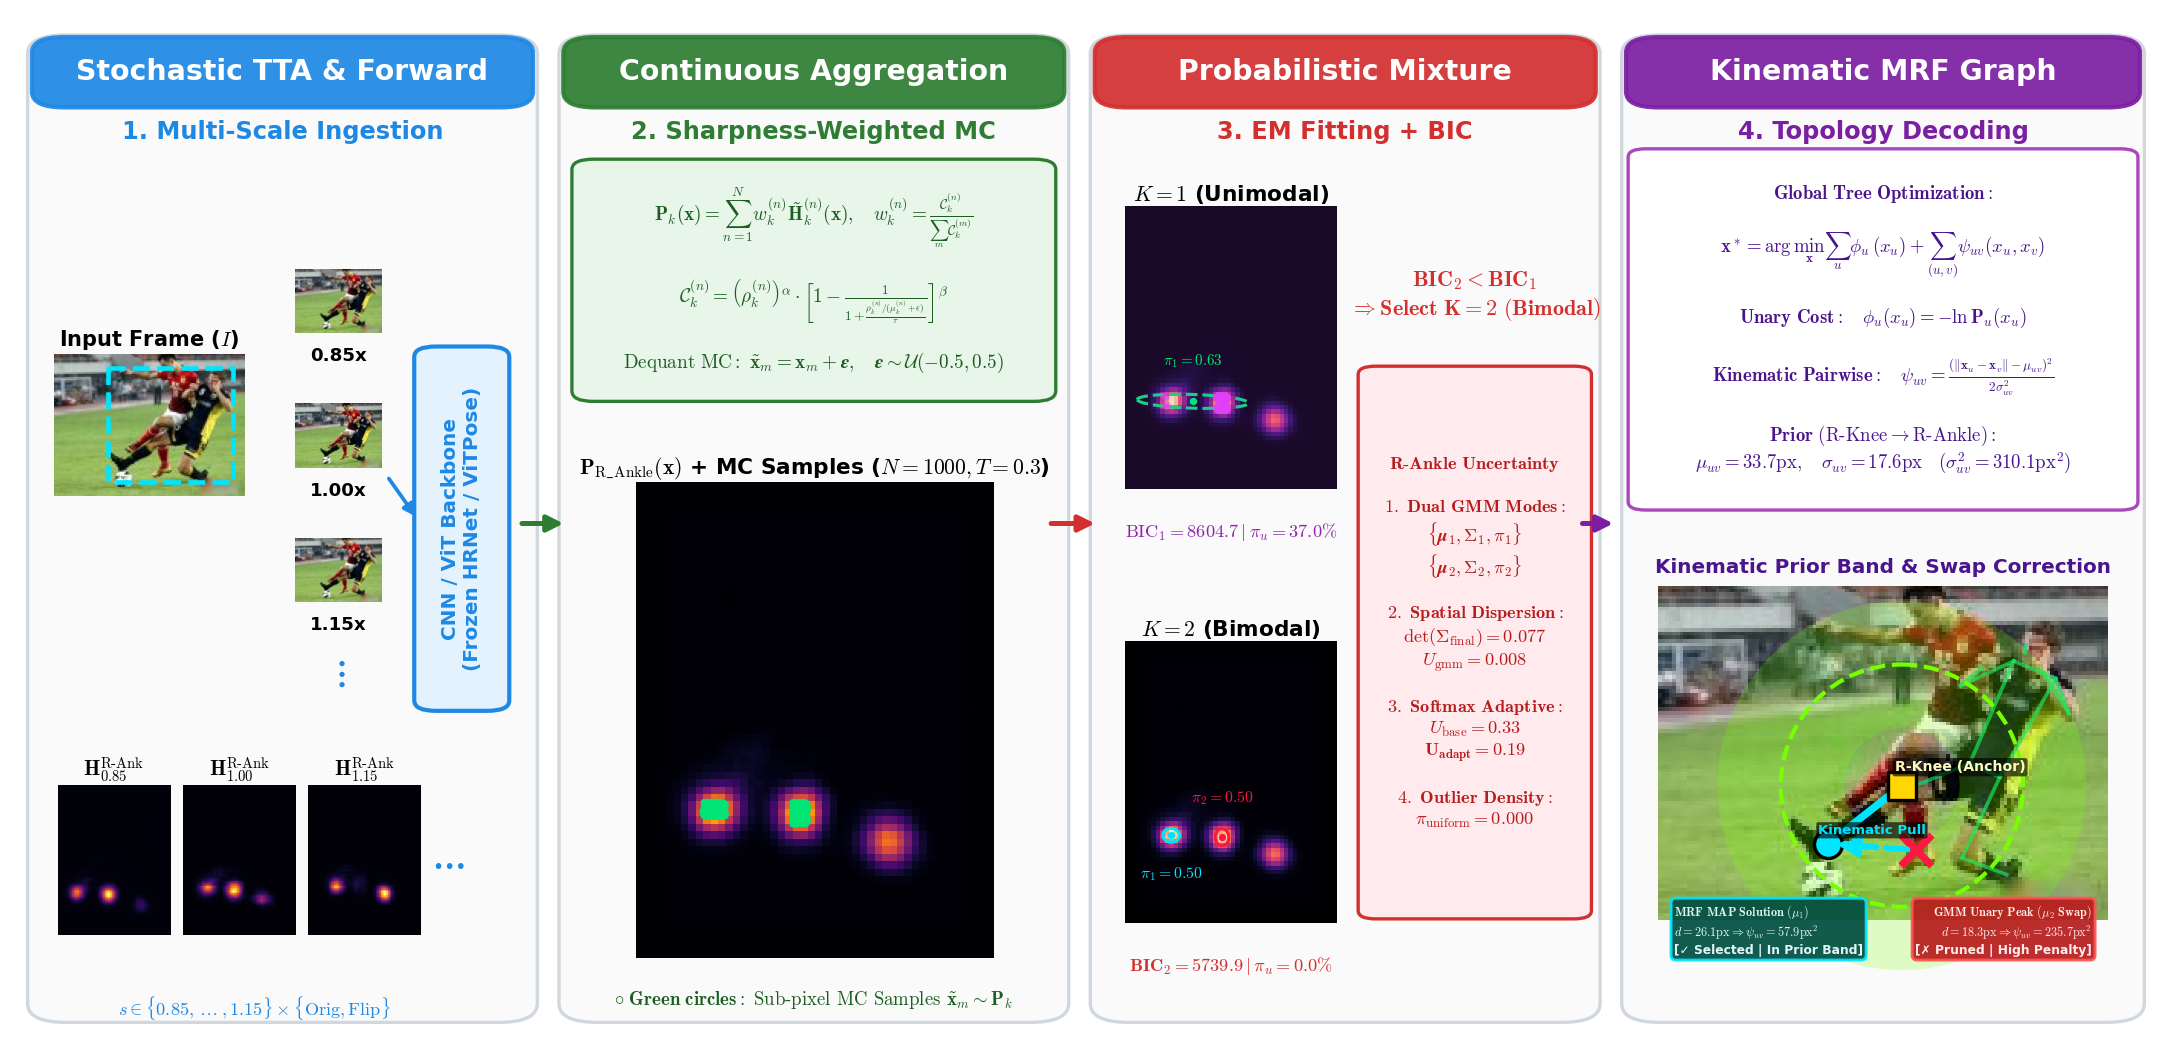
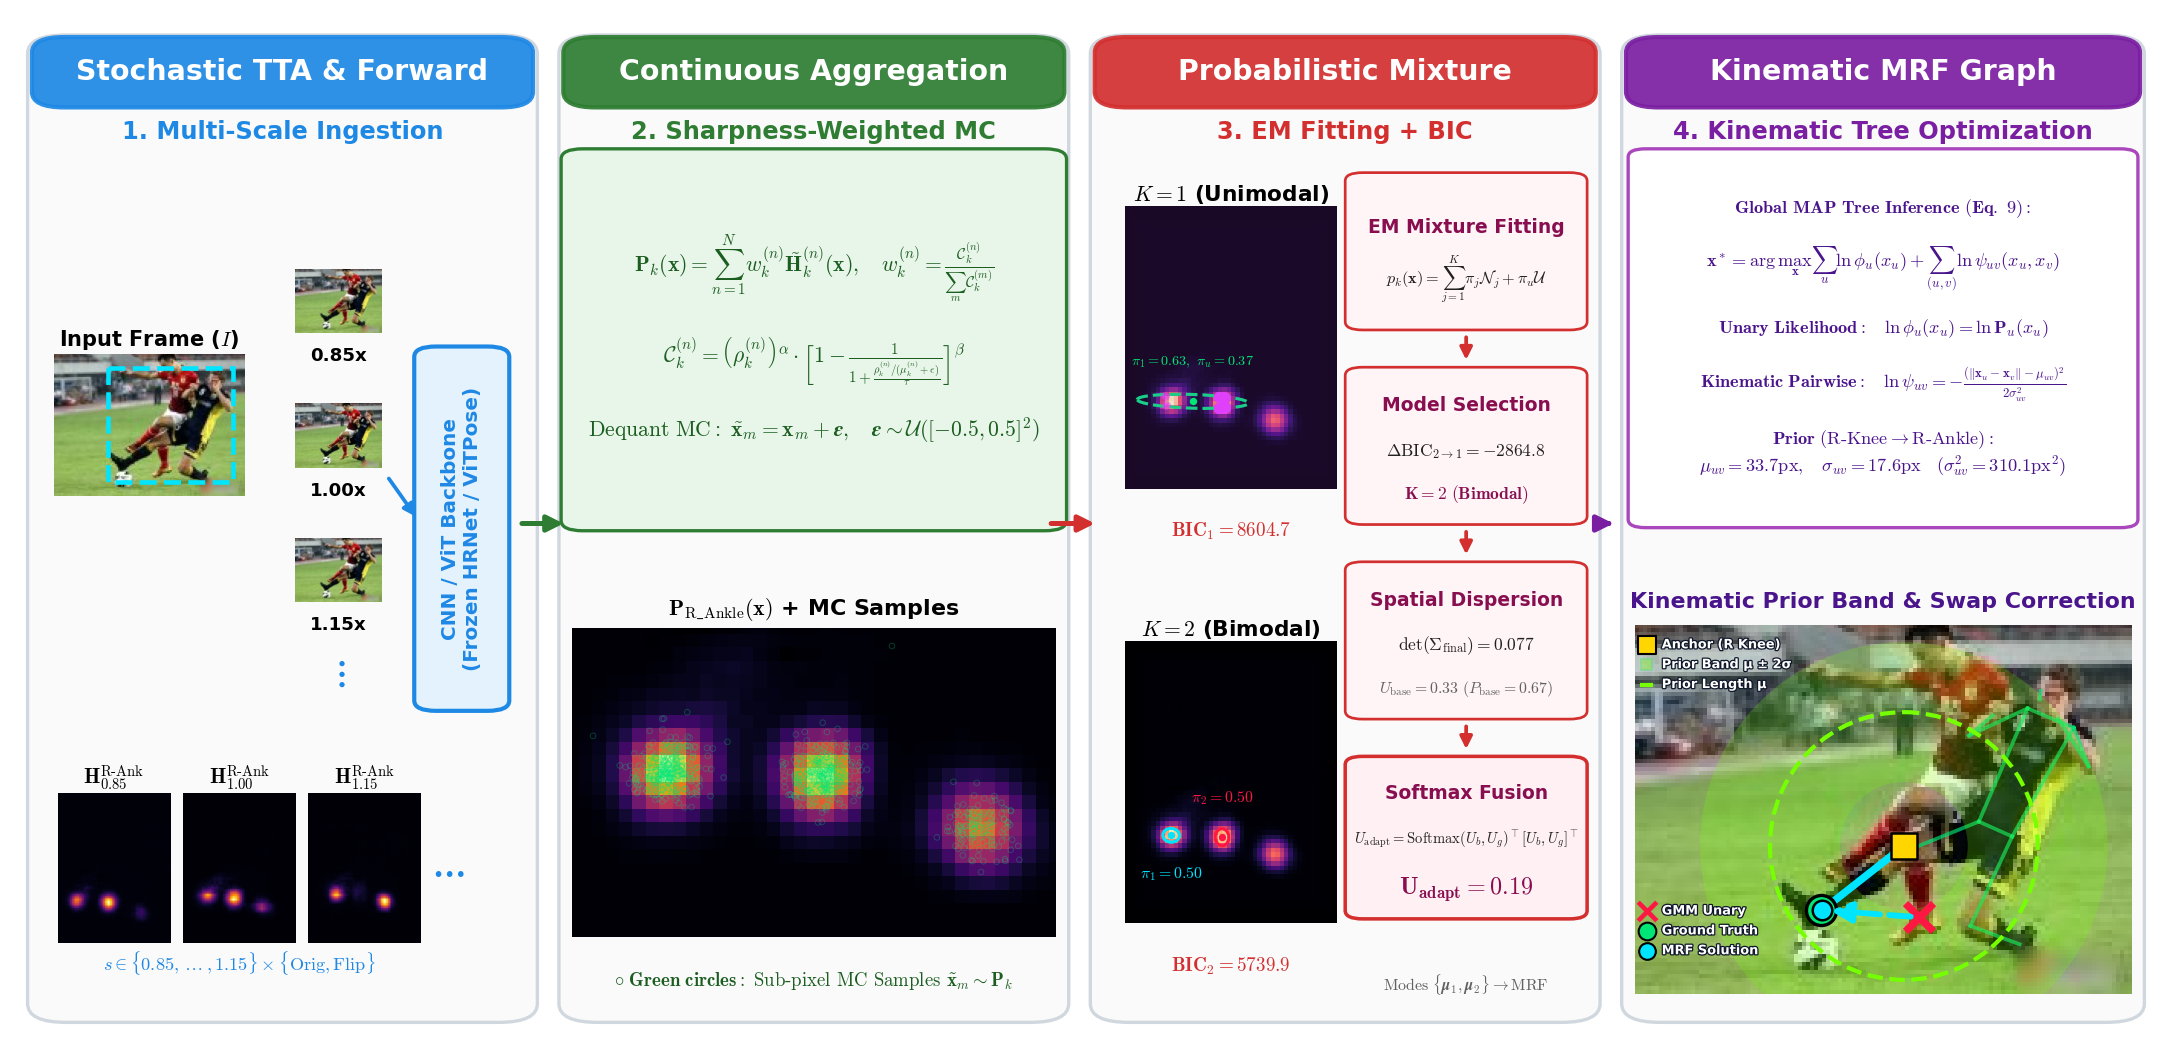
feat(visualizations): update methodology pipeline overview and sync README asset

diff --git a/src/experiments/visualizations/generate_methodology_pipeline_figure.py b/src/experiments/visualizations/generate_methodology_pipeline_figure.py
@@ -821,6 +821,7 @@ def render_methodology_pipeline_figure(
     # =========================================================================
     target_dirs = [
         project_root / "outputs" / "figures" / "methodology",
+        project_root / "assets",
     ]
     if (project_root.parent / "Paper").exists():
         target_dirs.append(project_root.parent / "Paper" / "Paper" / "figures" / "methodology")
@@ -849,12 +850,16 @@ def render_methodology_pipeline_figure(
             png_path = t_dir / f"{filename_base}.png"
             for attempt in range(5):
                 try:
-                    shutil.copyfile(tmp_pdf, pdf_path)
+                    if t_dir.name != "assets":
+                        shutil.copyfile(tmp_pdf, pdf_path)
                     shutil.copyfile(tmp_png, png_path)
                     break
                 except OSError:
                     time.sleep(0.6)
-            logger.info("Saved Methodology Pipeline figure to:\n  - %s\n  - %s", pdf_path, png_path)
+            if t_dir.name != "assets":
+                logger.info("Saved Methodology Pipeline figure to:\n  - %s\n  - %s", pdf_path, png_path)
+            else:
+                logger.info("Saved Methodology Pipeline figure to README assets:\n  - %s", png_path)
 
 
 def main() -> None:
